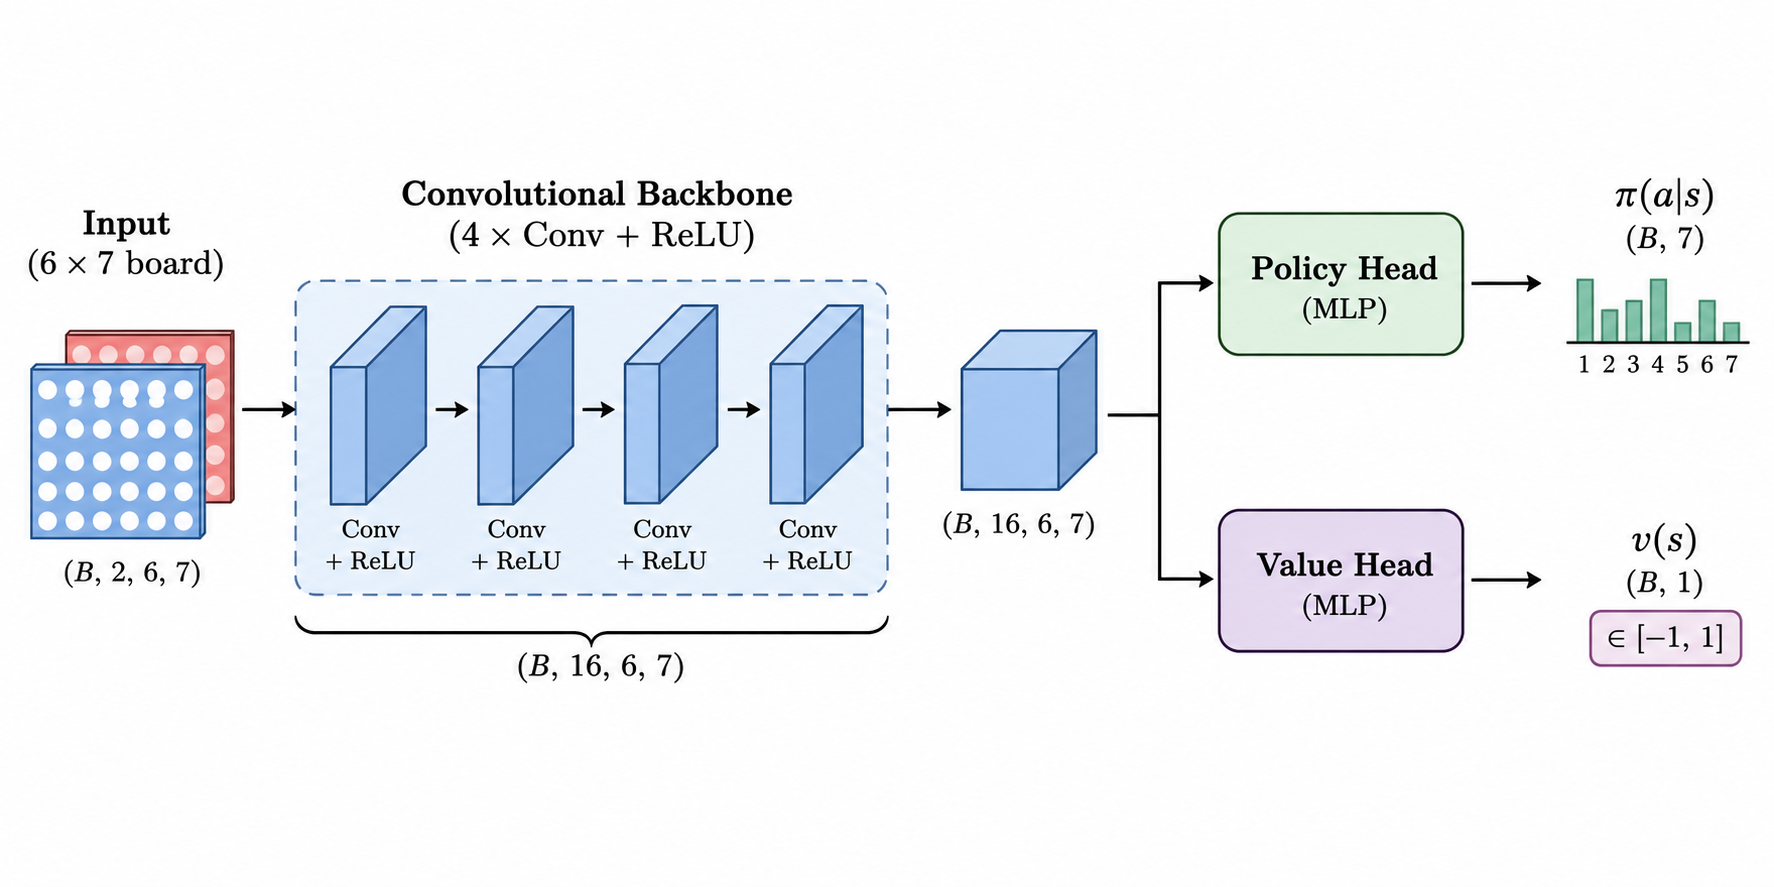
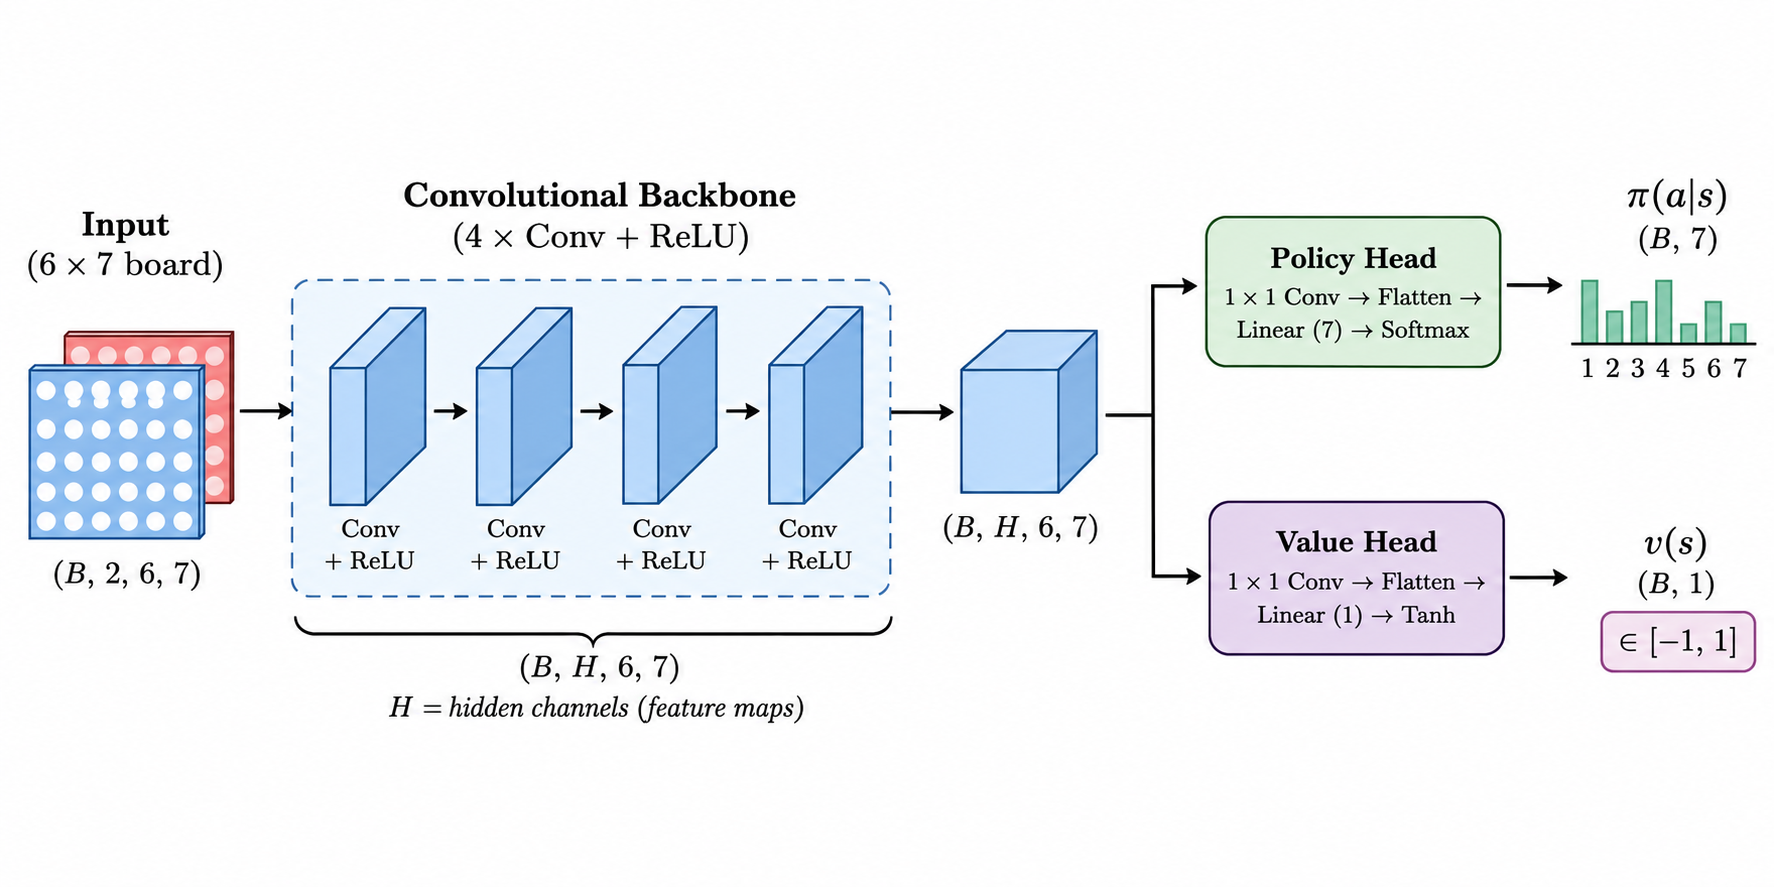
implementation details and network architecture diagram updates

diff --git a/README.md b/README.md
@@ -9,7 +9,7 @@ Built a complete AlphaZero-style agent for Connect-4, from the bare game rules t
 ## How to run
 
 ```bash
-python train.py --hidden_channels 16 --batch_size 8 --num_simulations 20 --num_games 10 --num_iterations 10 --num_epochs 10
+python train.py --hidden_channels 24 --batch_size 8 --num_simulations 200 --num_games 50 --num_iterations 50 --num_epochs 10
 ```
 
 To play against the included trained network with the graphical interface:
@@ -25,7 +25,7 @@ are shown while it decides.
 After training a different network, pass its checkpoint and architecture:
 
 ```bash
-python play_connect4.py --checkpoint path/to/network.pth --hidden_channels 16 --num_simulations 100 
+python play_connect4.py --checkpoint path/to/network.pth --hidden_channels 24 --num_simulations 100 
 ```
 
 The graphical evaluator is also available from `train.py --evaluate_mode human`
@@ -59,11 +59,36 @@ To compute P(s, a), we can train a policy network that takes the current board s
 
 One can observe that the policy network is improved with more accurate visit count distributions from MCTS, while the value network is improved with more accurate value targets from self-play games. This creates a feedback loop where the policy and value networks improve each other over time, leading to stronger play. Hence, these networks are combined into a single policy-value network that outputs both the action probabilities and the value estimate for a given board state.
 
-## Network Architecture
+## Network Architecture & Training
 
 While further testing and tuning of the network architecture is possible, my current best implementation uses a small convolutional neural network backbone with 4 convolutional layers, each followed by a ReLU activation function. The latents from the backbone are then fed into two seperate MLPs, one for the policy head, outputting a probability distribution over the 7 possible actions, and one for the value head, outputting a scalar value representing the expected outcome of the game from that state.
+Note that a 1D convolutional layer is used at the start of each head to reduce the number of channels from the backbone output to the desired number of channels for each head. The policy head uses a softmax activation function to produce a valid probability distribution over actions, while the value head uses a tanh activation function to produce a scalar value in the range [-1, 1].
 
 ![Network architecture diagram](assets/network_diagram.png)
 
+During training, I found that the most impactful hyperparameters to tune were the number of MCTS simulations per move and the number of games per iteration. This is because more simulations per move allows the MCTS to explore the game tree more thoroughly, producing a more accurate visit count distribution for the policy network to learn from. Similarly, more games per iteration allows the networks to learn from a larger and more diverse set of game states, improving their generalization and performance.
+
+One challenge I faced during training was the tendency of the network to not make the right moves during terminal board states, where a player is about to win or lose. My goal was to have the network be strong enough to handle these situations using 50 MCTS simulations per move. To reach this goal, I needed to implement the use of Dirichlet noise during the MCTS simulations (also used in AlphaZero), which updates the prior probabilities of the child nodes at the root of the search tree to encourage exploration of less-visited nodes. This helps prevent the network from getting stuck in local optima and allows it to discover better moves during training. Dirichlet noise is formulated as follows:
+
+$$P'(s, a) = (1 - \epsilon) * P(s, a) + \epsilon * n(a)$
+
+Where:
+- P'(s, a) is the updated prior probability of taking action a at state s
+- P(s, a) is the original prior probability of taking action a at state s, computed by the policy network
+- n(a) is a sample from a Dirichlet distribution with parameter alpha, which is set as a hyperparameter to control the amount of noise added to the prior probabilities
+- epsilon is a hyperparameter that controls the balance between the original prior probabilities and the added noise, with a higher value of epsilon leading to more exploration of less-visited nodes. This is set to 0.25 in my implementation, following the AlphaZero paper.
+
+In parallel to the use of Dirichlet noise, I also including random action sampling at the beginning of each game during self-play, where the first set of moves are selected randomly from the available legal moves, but still weighted by the policy network's prior probabilities. This helps to further encourage exploration of the game tree and prevent the network from getting stuck in local optima during training. I found that with these two techniques, the training data became much more diverse and the network, which was likely overfitting to a single strategy, was able to learn a more robust and generalizable policy, and thus make the right moves during terminal board states.
+
 ## Experiments and Evaluation
+
+To evaluate the performance of the trained policy-value network during hyperparameter tuning, the network is pitted against various levels of opponents to rank its performance. The opponents include:
+- Random: A baseline opponent that selects moves uniformly at random from the available legal moves. Network plays greedy, meaning it does not use MCTS to select moves, but instead selects the move with the highest probability from the policy network.
+- Other Trained Networks: Networks trained with different hyperparameter settings, allowing for comparison of performance across different configurations and tournament-style ranking of networks based on their win rates against each other.
+- Human: A human player, allowing for evaluation of the network's performance against a real opponent. The human player can select moves using the graphical interface, and the network plays with a defined number of MCTS simulations per move (the lower number of simulations, while still remaining strong, the better the network is).
+- LLM: Using Ollama to run Qwen-3.5-9B on an M3 MacBook Pro, with custom system and user prompts to play Connect 4 with its own move history. The LLM is prompted to select moves based on the current board state, and the network plays with a defined number of MCTS simulations per move. The LLM is also prompted to provide reasoning for its move selection, allowing for evaluation of its decision-making process.
+
+The best trained network with 50 MCTS simulations per move achieved a win rate of 90\% out of 20 games against a human expert (myself), and a win rate of 100\% out of 20 games against Qwen-3.5-9B with 50 MCTS simulations per move. The LLM was able to select winning moves in some cases, but was not able to consistently block the network's winning moves due to its inability to search future game states and evaluate the consequences of it and its opponeent's actions. An example of the prompts used and LLM reasoning for its move selection can be found in the `logs/prompts.log` file, and the full game logs can be found in the `logs/game.log` file. This emphasizes that even with enough context, simply throwing LLMs at a problem is not enough to achieve strong performance at a task, but rather, algorithmic approaches combined with other types of trained networks, especially cheaper and more efficient ones, can be more effective in solving the problem. This is especially true for problems with large search spaces, where LLMs alone are not able to search the space effectively and efficiently, and thus cannot make optimal decisions.
+
+The effects of number of MCTS simulations per move on the network's performance is apparent when increasing to 100 or more, as the win rate against human players increases to 100\%. This is expected as the network's losses with 50 simulations were consistently due to missed terminal state blocking moves, which the network couldn't completely compensate for with that number of simulated visits.
 
